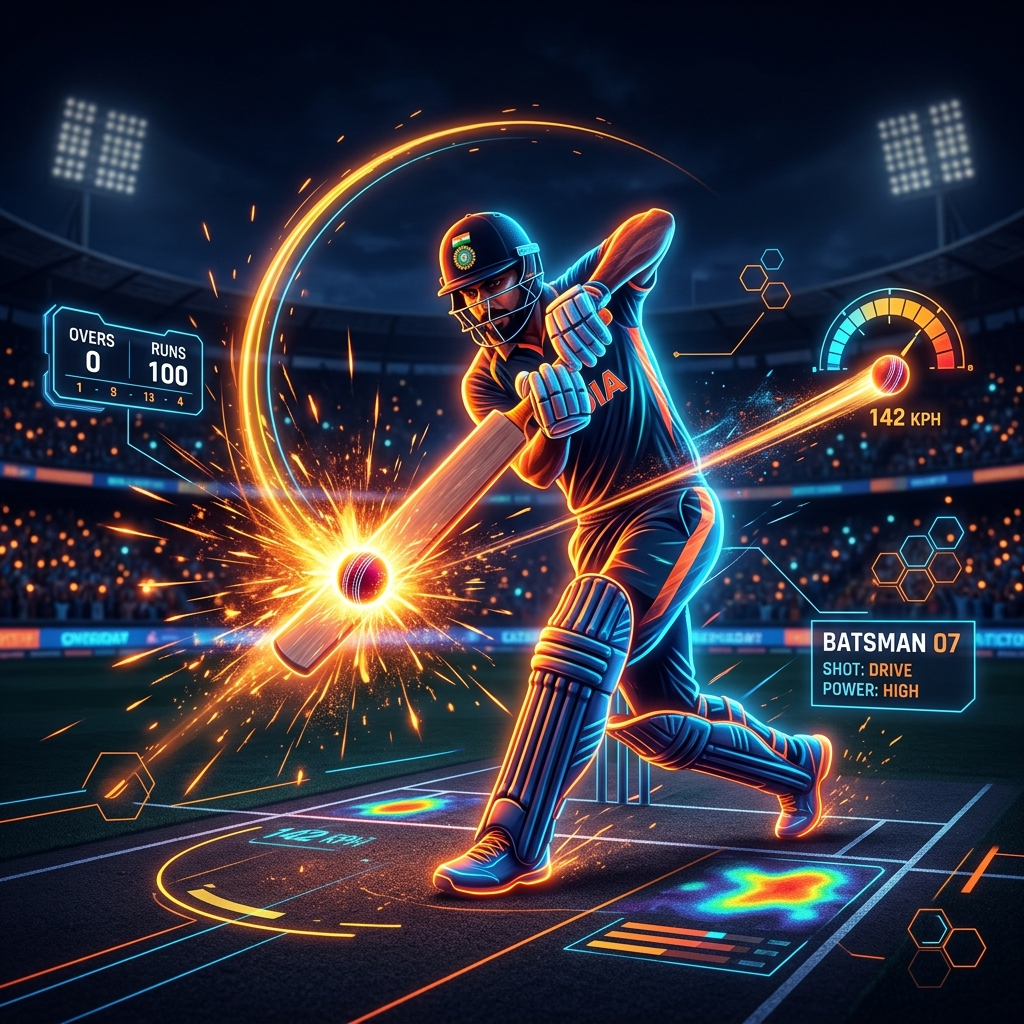
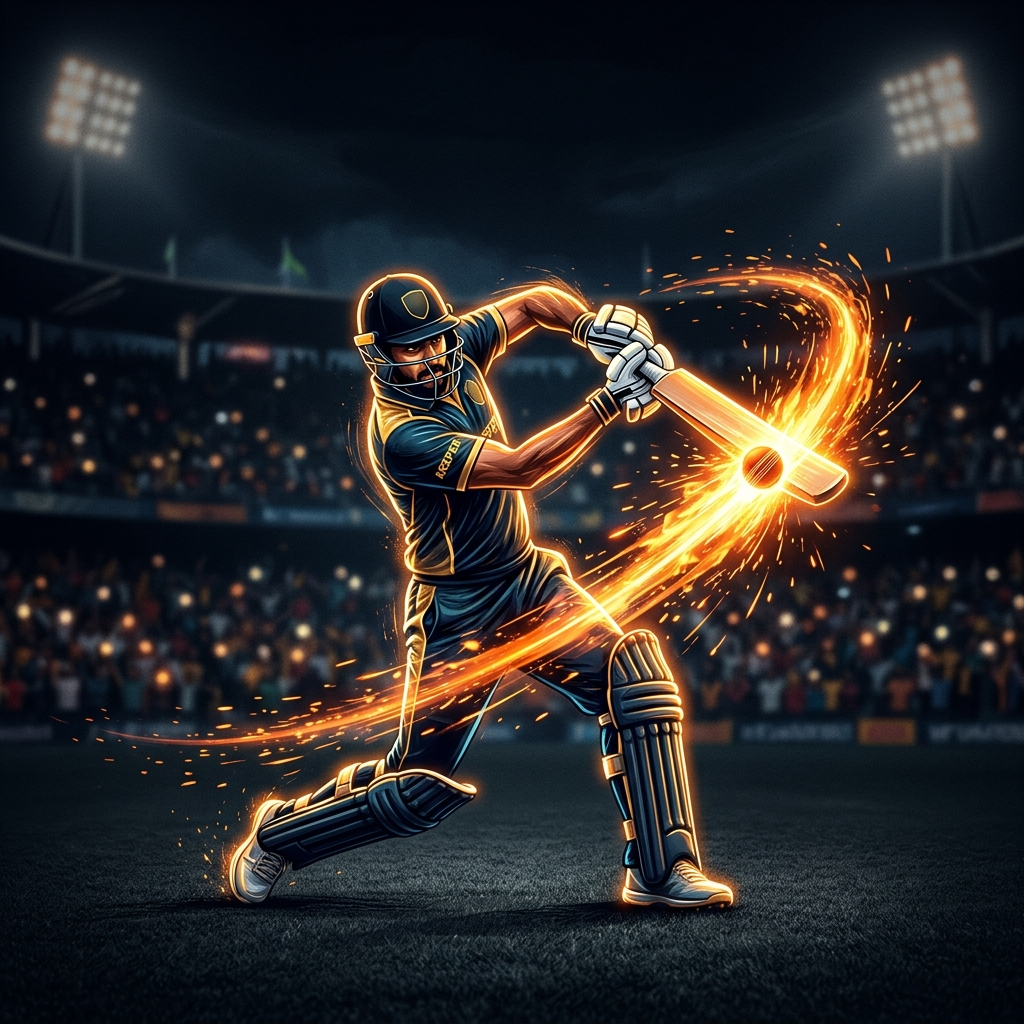
Polish dashboard details to match mockup: clean batsman illustration, glowing sparkline dots, label lists, and glowing progress ring underlays

diff --git a/frontend/src/app/(dashboard)/dashboard/page.tsx b/frontend/src/app/(dashboard)/dashboard/page.tsx
@@ -19,7 +19,7 @@ import {
   Star,
   Plus
 } from "lucide-react";
-import { Area, AreaChart, ResponsiveContainer, Tooltip, XAxis, YAxis, BarChart, Bar } from "recharts";
+import { Area, AreaChart, ResponsiveContainer, Tooltip, XAxis, YAxis, BarChart, Bar, LabelList } from "recharts";
 import { api } from "@/lib/api";
 import { clsx } from "clsx";
 
@@ -115,7 +115,7 @@ export default function DashboardPage() {
           {/* Notification bell */}
           <button className="relative p-2.5 bg-white/5 border border-white/10 rounded-2xl hover:bg-white/10 text-zinc-400 hover:text-white transition-all cursor-pointer">
             <Bell className="w-4 h-4" />
-            <span className="absolute top-1.5 right-1.5 w-3.5 h-3.5 bg-orange-600 text-[8px] font-black text-white rounded-full flex items-center justify-center border-2 border-[#0a0a0a]">
+            <span className="absolute top-1.5 right-1.5 w-3.5 h-3.5 bg-orange-650 text-[8px] font-black text-white rounded-full flex items-center justify-center border-2 border-[#0a0a0a]">
               3
             </span>
           </button>
@@ -165,13 +165,13 @@ export default function DashboardPage() {
           </select>
         </div>
 
-        {/* Dynamic absolute batsman illustration */}
-        <div className="absolute -right-4 -top-8 w-[380px] h-[380px] pointer-events-none opacity-20 md:opacity-60 lg:opacity-[0.85] mix-blend-screen hidden sm:block z-0 select-none">
+        {/* Dynamic absolute batsman illustration - Positioned precisely to match mockup without clashing */}
+        <div className="absolute -right-16 -top-24 w-[340px] h-[340px] pointer-events-none opacity-70 mix-blend-screen hidden sm:block z-0 select-none">
           <Image 
             src="/batsman-hero.png" 
             alt="Cricket Batsman Illustration" 
             fill 
-            className="object-contain" 
+            className="object-contain mix-blend-screen" 
             priority
           />
         </div>
@@ -189,10 +189,13 @@ export default function DashboardPage() {
           iconColor="text-indigo-400 bg-indigo-500/10 border-indigo-500/20"
           gradient="from-indigo-500/5 to-purple-500/5 hover:border-indigo-500/20"
         >
-          {/* Custom Purple Line Chart SVG */}
-          <svg className="absolute bottom-0 left-0 right-0 h-10 w-full" viewBox="0 0 200 40" fill="none" preserveAspectRatio="none">
+          {/* Custom Purple Line Chart SVG with glowing dots */}
+          <svg className="absolute bottom-0 left-0 right-0 h-10 w-full overflow-visible" viewBox="0 0 200 40" fill="none" preserveAspectRatio="none">
             <path d="M0 40 Q25 20, 50 30 T100 10 T150 25 T200 15 V40 H0" fill="url(#purpleGlow)" />
-            <path d="M0 35 Q25 15, 50 25 T100 5 T150 20 T200 10" stroke="#8b5cf6" strokeWidth="2" strokeLinecap="round" />
+            <path d="M0 35 Q25 15, 50 25 T100 5 T150 20 T200 10" stroke="#8b5cf6" strokeWidth="2.5" strokeLinecap="round" />
+            <circle cx="50" cy="25" r="2.5" fill="#fff" className="filter drop-shadow-[0_0_3px_#8b5cf6]" />
+            <circle cx="100" cy="5" r="2.5" fill="#fff" className="filter drop-shadow-[0_0_3px_#8b5cf6]" />
+            <circle cx="150" cy="20" r="2.5" fill="#fff" className="filter drop-shadow-[0_0_3px_#8b5cf6]" />
             <defs>
               <linearGradient id="purpleGlow" x1="0" y1="0" x2="0" y2="1">
                 <stop offset="0%" stopColor="#8b5cf6" stopOpacity="0.15" />
@@ -212,10 +215,13 @@ export default function DashboardPage() {
           iconColor="text-fuchsia-400 bg-fuchsia-500/10 border-fuchsia-500/20"
           gradient="from-fuchsia-500/5 to-pink-500/5 hover:border-fuchsia-500/20"
         >
-          {/* Custom Pink Line Chart SVG */}
-          <svg className="absolute bottom-0 left-0 right-0 h-10 w-full" viewBox="0 0 200 40" fill="none" preserveAspectRatio="none">
+          {/* Custom Pink Line Chart SVG with glowing dots */}
+          <svg className="absolute bottom-0 left-0 right-0 h-10 w-full overflow-visible" viewBox="0 0 200 40" fill="none" preserveAspectRatio="none">
             <path d="M0 40 Q25 15, 50 25 T100 8 T150 30 T200 10 V40 H0" fill="url(#pinkGlow)" />
-            <path d="M0 35 Q25 10, 50 20 T100 3 T150 25 T200 5" stroke="#ec4899" strokeWidth="2" strokeLinecap="round" />
+            <path d="M0 35 Q25 10, 50 20 T100 3 T150 25 T200 5" stroke="#ec4899" strokeWidth="2.5" strokeLinecap="round" />
+            <circle cx="50" cy="20" r="2.5" fill="#fff" className="filter drop-shadow-[0_0_3px_#ec4899]" />
+            <circle cx="100" cy="3" r="2.5" fill="#fff" className="filter drop-shadow-[0_0_3px_#ec4899]" />
+            <circle cx="150" cy="25" r="2.5" fill="#fff" className="filter drop-shadow-[0_0_3px_#ec4899]" />
             <defs>
               <linearGradient id="pinkGlow" x1="0" y1="0" x2="0" y2="1">
                 <stop offset="0%" stopColor="#ec4899" stopOpacity="0.15" />
@@ -235,10 +241,13 @@ export default function DashboardPage() {
           iconColor="text-orange-400 bg-orange-500/10 border-orange-500/20"
           gradient="from-orange-500/5 to-red-500/5 hover:border-orange-500/20"
         >
-          {/* Custom Orange Line Chart SVG */}
-          <svg className="absolute bottom-0 left-0 right-0 h-10 w-full" viewBox="0 0 200 40" fill="none" preserveAspectRatio="none">
+          {/* Custom Orange Line Chart SVG with glowing dots */}
+          <svg className="absolute bottom-0 left-0 right-0 h-10 w-full overflow-visible" viewBox="0 0 200 40" fill="none" preserveAspectRatio="none">
             <path d="M0 40 Q25 30, 50 20 T100 15 T150 8 T200 18 V40 H0" fill="url(#orangeGlow)" />
-            <path d="M0 35 Q25 25, 50 15 T100 10 T150 3 T200 13" stroke="#f97316" strokeWidth="2" strokeLinecap="round" />
+            <path d="M0 35 Q25 25, 50 15 T100 10 T150 3 T200 13" stroke="#f97316" strokeWidth="2.5" strokeLinecap="round" />
+            <circle cx="50" cy="15" r="2.5" fill="#fff" className="filter drop-shadow-[0_0_3px_#f97316]" />
+            <circle cx="100" cy="10" r="2.5" fill="#fff" className="filter drop-shadow-[0_0_3px_#f97316]" />
+            <circle cx="150" cy="3" r="2.5" fill="#fff" className="filter drop-shadow-[0_0_3px_#f97316]" />
             <defs>
               <linearGradient id="orangeGlow" x1="0" y1="0" x2="0" y2="1">
                 <stop offset="0%" stopColor="#f97316" stopOpacity="0.15" />
@@ -258,10 +267,13 @@ export default function DashboardPage() {
           iconColor="text-emerald-400 bg-emerald-500/10 border-emerald-500/20"
           gradient="from-emerald-500/5 to-teal-500/5 hover:border-emerald-500/20"
         >
-          {/* Custom Green Line Chart SVG */}
-          <svg className="absolute bottom-0 left-0 right-0 h-10 w-full" viewBox="0 0 200 40" fill="none" preserveAspectRatio="none">
+          {/* Custom Green Line Chart SVG with glowing dots */}
+          <svg className="absolute bottom-0 left-0 right-0 h-10 w-full overflow-visible" viewBox="0 0 200 40" fill="none" preserveAspectRatio="none">
             <path d="M0 40 Q25 25, 50 35 T100 15 T150 22 T200 8 V40 H0" fill="url(#greenGlow)" />
-            <path d="M0 35 Q25 20, 50 30 T100 10 T150 17 T200 3" stroke="#10b981" strokeWidth="2" strokeLinecap="round" />
+            <path d="M0 35 Q25 20, 50 30 T100 10 T150 17 T200 3" stroke="#10b981" strokeWidth="2.5" strokeLinecap="round" />
+            <circle cx="50" cy="30" r="2.5" fill="#fff" className="filter drop-shadow-[0_0_3px_#10b981]" />
+            <circle cx="100" cy="10" r="2.5" fill="#fff" className="filter drop-shadow-[0_0_3px_#10b981]" />
+            <circle cx="150" cy="17" r="2.5" fill="#fff" className="filter drop-shadow-[0_0_3px_#10b981]" />
             <defs>
               <linearGradient id="greenGlow" x1="0" y1="0" x2="0" y2="1">
                 <stop offset="0%" stopColor="#10b981" stopOpacity="0.15" />
@@ -272,55 +284,55 @@ export default function DashboardPage() {
         </StatCard>
       </div>
 
-      {/* Intermediate metrics row: Averages & Circular Progress rings */}
+      {/* Intermediate metrics row: Averages & Glowing Circular Progress Rings */}
       <div className="grid grid-cols-1 sm:grid-cols-2 lg:grid-cols-4 gap-5 z-10 relative">
         
         {/* AVERAGE PPI */}
         <div className="bg-white/5 border border-white/10 rounded-2xl p-5 flex items-center justify-between backdrop-blur-md hover:border-orange-500/20 transition-all duration-300">
           <div className="space-y-1">
-            <span className="text-[10px] text-zinc-500 uppercase font-black tracking-wider block">Average PPI</span>
+            <span className="text-[10px] text-zinc-550 uppercase font-black tracking-wider block">Average PPI</span>
             <span className="text-2xl font-black text-white">{data.avgPpi.toFixed(1)}</span>
             <span className="text-[10px] text-zinc-450 block font-semibold">{data.avgPpi > 0 ? `${data.avgPpi.toFixed(1)} avg` : "No data"}</span>
           </div>
           <ProgressRing value={data.avgPpi} colorClass="stroke-orange-500" trailColorClass="stroke-white/5">
-            <Activity className="w-4 h-4 text-orange-500" />
+            <Activity className="w-[18px] h-[18px] text-orange-500" />
           </ProgressRing>
         </div>
 
         {/* AVERAGE MPI */}
         <div className="bg-white/5 border border-white/10 rounded-2xl p-5 flex items-center justify-between backdrop-blur-md hover:border-emerald-500/20 transition-all duration-300">
           <div className="space-y-1">
-            <span className="text-[10px] text-zinc-500 uppercase font-black tracking-wider block">Average MPI</span>
+            <span className="text-[10px] text-zinc-550 uppercase font-black tracking-wider block">Average MPI</span>
             <span className="text-2xl font-black text-white">{data.avgMpi.toFixed(1)}</span>
             <span className="text-[10px] text-zinc-450 block font-semibold">{data.avgMpi > 0 ? `${data.avgMpi.toFixed(1)} avg` : "No data"}</span>
           </div>
           <ProgressRing value={data.avgMpi} colorClass="stroke-emerald-500" trailColorClass="stroke-white/5">
-            <TrendingUp className="w-4 h-4 text-emerald-500" />
+            <TrendingUp className="w-[18px] h-[18px] text-emerald-500" />
           </ProgressRing>
         </div>
 
         {/* AVERAGE CPI */}
         <div className="bg-white/5 border border-white/10 rounded-2xl p-5 flex items-center justify-between backdrop-blur-md hover:border-blue-500/20 transition-all duration-300">
           <div className="space-y-1">
-            <span className="text-[10px] text-zinc-500 uppercase font-black tracking-wider block">Average CPI</span>
+            <span className="text-[10px] text-zinc-550 uppercase font-black tracking-wider block">Average CPI</span>
             <span className="text-2xl font-black text-white">{data.avgCpi.toFixed(1)}</span>
             <span className="text-[10px] text-zinc-450 block font-semibold">Combined index</span>
           </div>
           <ProgressRing value={data.avgCpi} colorClass="stroke-blue-500" trailColorClass="stroke-white/5">
-            <Calendar className="w-4 h-4 text-blue-500" />
+            <Calendar className="w-[18px] h-[18px] text-blue-500" />
           </ProgressRing>
         </div>
 
         {/* PERFORMANCE STATUS */}
         <div className="bg-white/5 border border-white/10 rounded-2xl p-5 flex items-center justify-between backdrop-blur-md hover:border-amber-500/20 transition-all duration-300">
           <div className="space-y-1">
-            <span className="text-[10px] text-zinc-500 uppercase font-black tracking-wider block">Performance Status</span>
+            <span className="text-[10px] text-zinc-550 uppercase font-black tracking-wider block">Performance Status</span>
             <span className="text-xl font-black text-white">On Track</span>
             <span className="text-[10px] text-zinc-450 block font-semibold">Keep pushing hard!</span>
           </div>
           <ProgressRing value={8.5} max={10} colorClass="stroke-amber-500" trailColorClass="stroke-white/5">
-            <div className="w-7 h-7 bg-amber-500/10 rounded-full flex items-center justify-center border border-amber-500/20">
-              <Star className="w-3.5 h-3.5 text-amber-500 fill-current" />
+            <div className="w-8 h-8 bg-amber-500/10 rounded-full flex items-center justify-center border border-amber-500/20">
+              <Star className="w-4 h-4 text-amber-500 fill-current" />
             </div>
           </ProgressRing>
         </div>
@@ -333,7 +345,7 @@ export default function DashboardPage() {
             key={tab}
             onClick={() => setActiveTab(tab)}
             className={`flex-1 py-2 rounded-lg text-center transition-all uppercase tracking-wider text-[10px] ${
-              activeTab === tab ? "bg-orange-600 text-white shadow font-black" : "text-zinc-400 hover:text-zinc-200"
+              activeTab === tab ? "bg-orange-650 text-white shadow font-black" : "text-zinc-400 hover:text-zinc-200"
             }`}
           >
             {tab}
@@ -357,7 +369,7 @@ export default function DashboardPage() {
           <div className="h-[210px] sm:h-[260px] flex items-center justify-center">
             {data.cpiTrend.length > 0 ? (
               <ResponsiveContainer width="100%" height="100%">
-                <AreaChart data={data.cpiTrend} margin={{ top: 10, right: 10, left: -25, bottom: 0 }}>
+                <AreaChart data={data.cpiTrend} margin={{ top: 15, right: 10, left: -25, bottom: 0 }}>
                   <defs>
                     <linearGradient id="colorCpi" x1="0" y1="0" x2="0" y2="1">
                       <stop offset="5%" stopColor="#3b82f6" stopOpacity={0.25}/>
@@ -384,7 +396,7 @@ export default function DashboardPage() {
                 </AreaChart>
               </ResponsiveContainer>
             ) : (
-              <div className="text-zinc-550 text-xs">No CPI trend scores recorded.</div>
+              <div className="text-zinc-555 text-xs">No CPI trend scores recorded.</div>
             )}
           </div>
         </div>
@@ -403,7 +415,7 @@ export default function DashboardPage() {
           <div className="h-[210px] sm:h-[260px] flex items-center justify-center">
             {data.teamPerformance.length > 0 ? (
               <ResponsiveContainer width="100%" height="100%">
-                <BarChart data={data.teamPerformance} margin={{ top: 10, right: 10, left: -25, bottom: 0 }}>
+                <BarChart data={data.teamPerformance} margin={{ top: 15, right: 10, left: -25, bottom: 0 }}>
                   <defs>
                     <linearGradient id="barGrad" x1="0" y1="0" x2="0" y2="1">
                       <stop offset="0%" stopColor="#3b82f6" />
@@ -417,11 +429,14 @@ export default function DashboardPage() {
                     itemStyle={{ color: '#c084fc', fontWeight: 'bold' }}
                     labelStyle={{ color: '#71717a' }}
                   />
-                  <Bar dataKey="cpi" name="CPI Score" fill="url(#barGrad)" radius={[6, 6, 0, 0]} maxBarSize={32} />
+                  <Bar dataKey="cpi" name="CPI Score" fill="url(#barGrad)" radius={[6, 6, 0, 0]} maxBarSize={32}>
+                    {/* Display score directly on top of the bars to match the mockup exactly */}
+                    <LabelList dataKey="cpi" position="top" fill="#a1a1aa" fontSize={10} fontWeight="bold" formatter={(val: number) => val.toFixed(1)} />
+                  </Bar>
                 </BarChart>
               </ResponsiveContainer>
             ) : (
-              <div className="text-zinc-550 text-xs">No team performance data available.</div>
+              <div className="text-zinc-555 text-xs">No team performance data available.</div>
             )}
           </div>
         </div>
@@ -443,7 +458,7 @@ export default function DashboardPage() {
           <div className="h-[210px] sm:h-[260px] flex items-center justify-center">
             {data.practiceTrend.length > 0 ? (
               <ResponsiveContainer width="100%" height="100%">
-                <AreaChart data={data.practiceTrend} margin={{ top: 10, right: 10, left: -25, bottom: 0 }}>
+                <AreaChart data={data.practiceTrend} margin={{ top: 15, right: 10, left: -25, bottom: 0 }}>
                   <defs>
                     <linearGradient id="colorPpi" x1="0" y1="0" x2="0" y2="1">
                       <stop offset="5%" stopColor="#f97316" stopOpacity="0.25"/>
@@ -470,7 +485,7 @@ export default function DashboardPage() {
                 </AreaChart>
               </ResponsiveContainer>
             ) : (
-              <div className="text-zinc-550 text-xs">No practice sessions logged.</div>
+              <div className="text-zinc-555 text-xs">No practice sessions logged.</div>
             )}
           </div>
         </div>
@@ -489,7 +504,7 @@ export default function DashboardPage() {
           <div className="h-[210px] sm:h-[260px] flex items-center justify-center">
             {data.totalMatches > 0 && data.matchTrend.length > 0 ? (
               <ResponsiveContainer width="100%" height="100%">
-                <AreaChart data={data.matchTrend} margin={{ top: 10, right: 10, left: -25, bottom: 0 }}>
+                <AreaChart data={data.matchTrend} margin={{ top: 15, right: 10, left: -25, bottom: 0 }}>
                   <defs>
                     <linearGradient id="colorMpi" x1="0" y1="0" x2="0" y2="1">
                       <stop offset="5%" stopColor="#10b981" stopOpacity="0.25"/>
@@ -592,8 +607,8 @@ export default function DashboardPage() {
   );
 }
 
-// Progress Ring Helper Component
-function ProgressRing({ value, max = 10, colorClass, trailColorClass, size = 48, strokeWidth = 4.5, children }: {
+// Progress Ring Helper Component with Glowing Blurred Underlays
+function ProgressRing({ value, max = 10, colorClass, trailColorClass, size = 52, strokeWidth = 5.5, children }: {
   value: number;
   max?: number;
   colorClass: string;
@@ -609,7 +624,8 @@ function ProgressRing({ value, max = 10, colorClass, trailColorClass, size = 48,
 
   return (
     <div className="relative flex items-center justify-center shrink-0" style={{ width: size, height: size }}>
-      <svg width={size} height={size} className="-rotate-90">
+      <svg width={size} height={size} className="-rotate-90 overflow-visible">
+        {/* Background track */}
         <circle
           className={trailColorClass}
           strokeWidth={strokeWidth}
@@ -618,6 +634,20 @@ function ProgressRing({ value, max = 10, colorClass, trailColorClass, size = 48,
           cx={size / 2}
           cy={size / 2}
         />
+        {/* Glowing blurry drop-shadow underlay circle */}
+        <circle
+          className={colorClass}
+          style={{ filter: "blur(2.5px)", opacity: 0.4 }}
+          strokeWidth={strokeWidth + 1}
+          strokeDasharray={circumference}
+          strokeDashoffset={strokeDashoffset}
+          strokeLinecap="round"
+          fill="transparent"
+          r={radius}
+          cx={size / 2}
+          cy={size / 2}
+        />
+        {/* Main sharp progress circle */}
         <circle
           className={clsx("transition-all duration-700 ease-out", colorClass)}
           strokeWidth={strokeWidth}